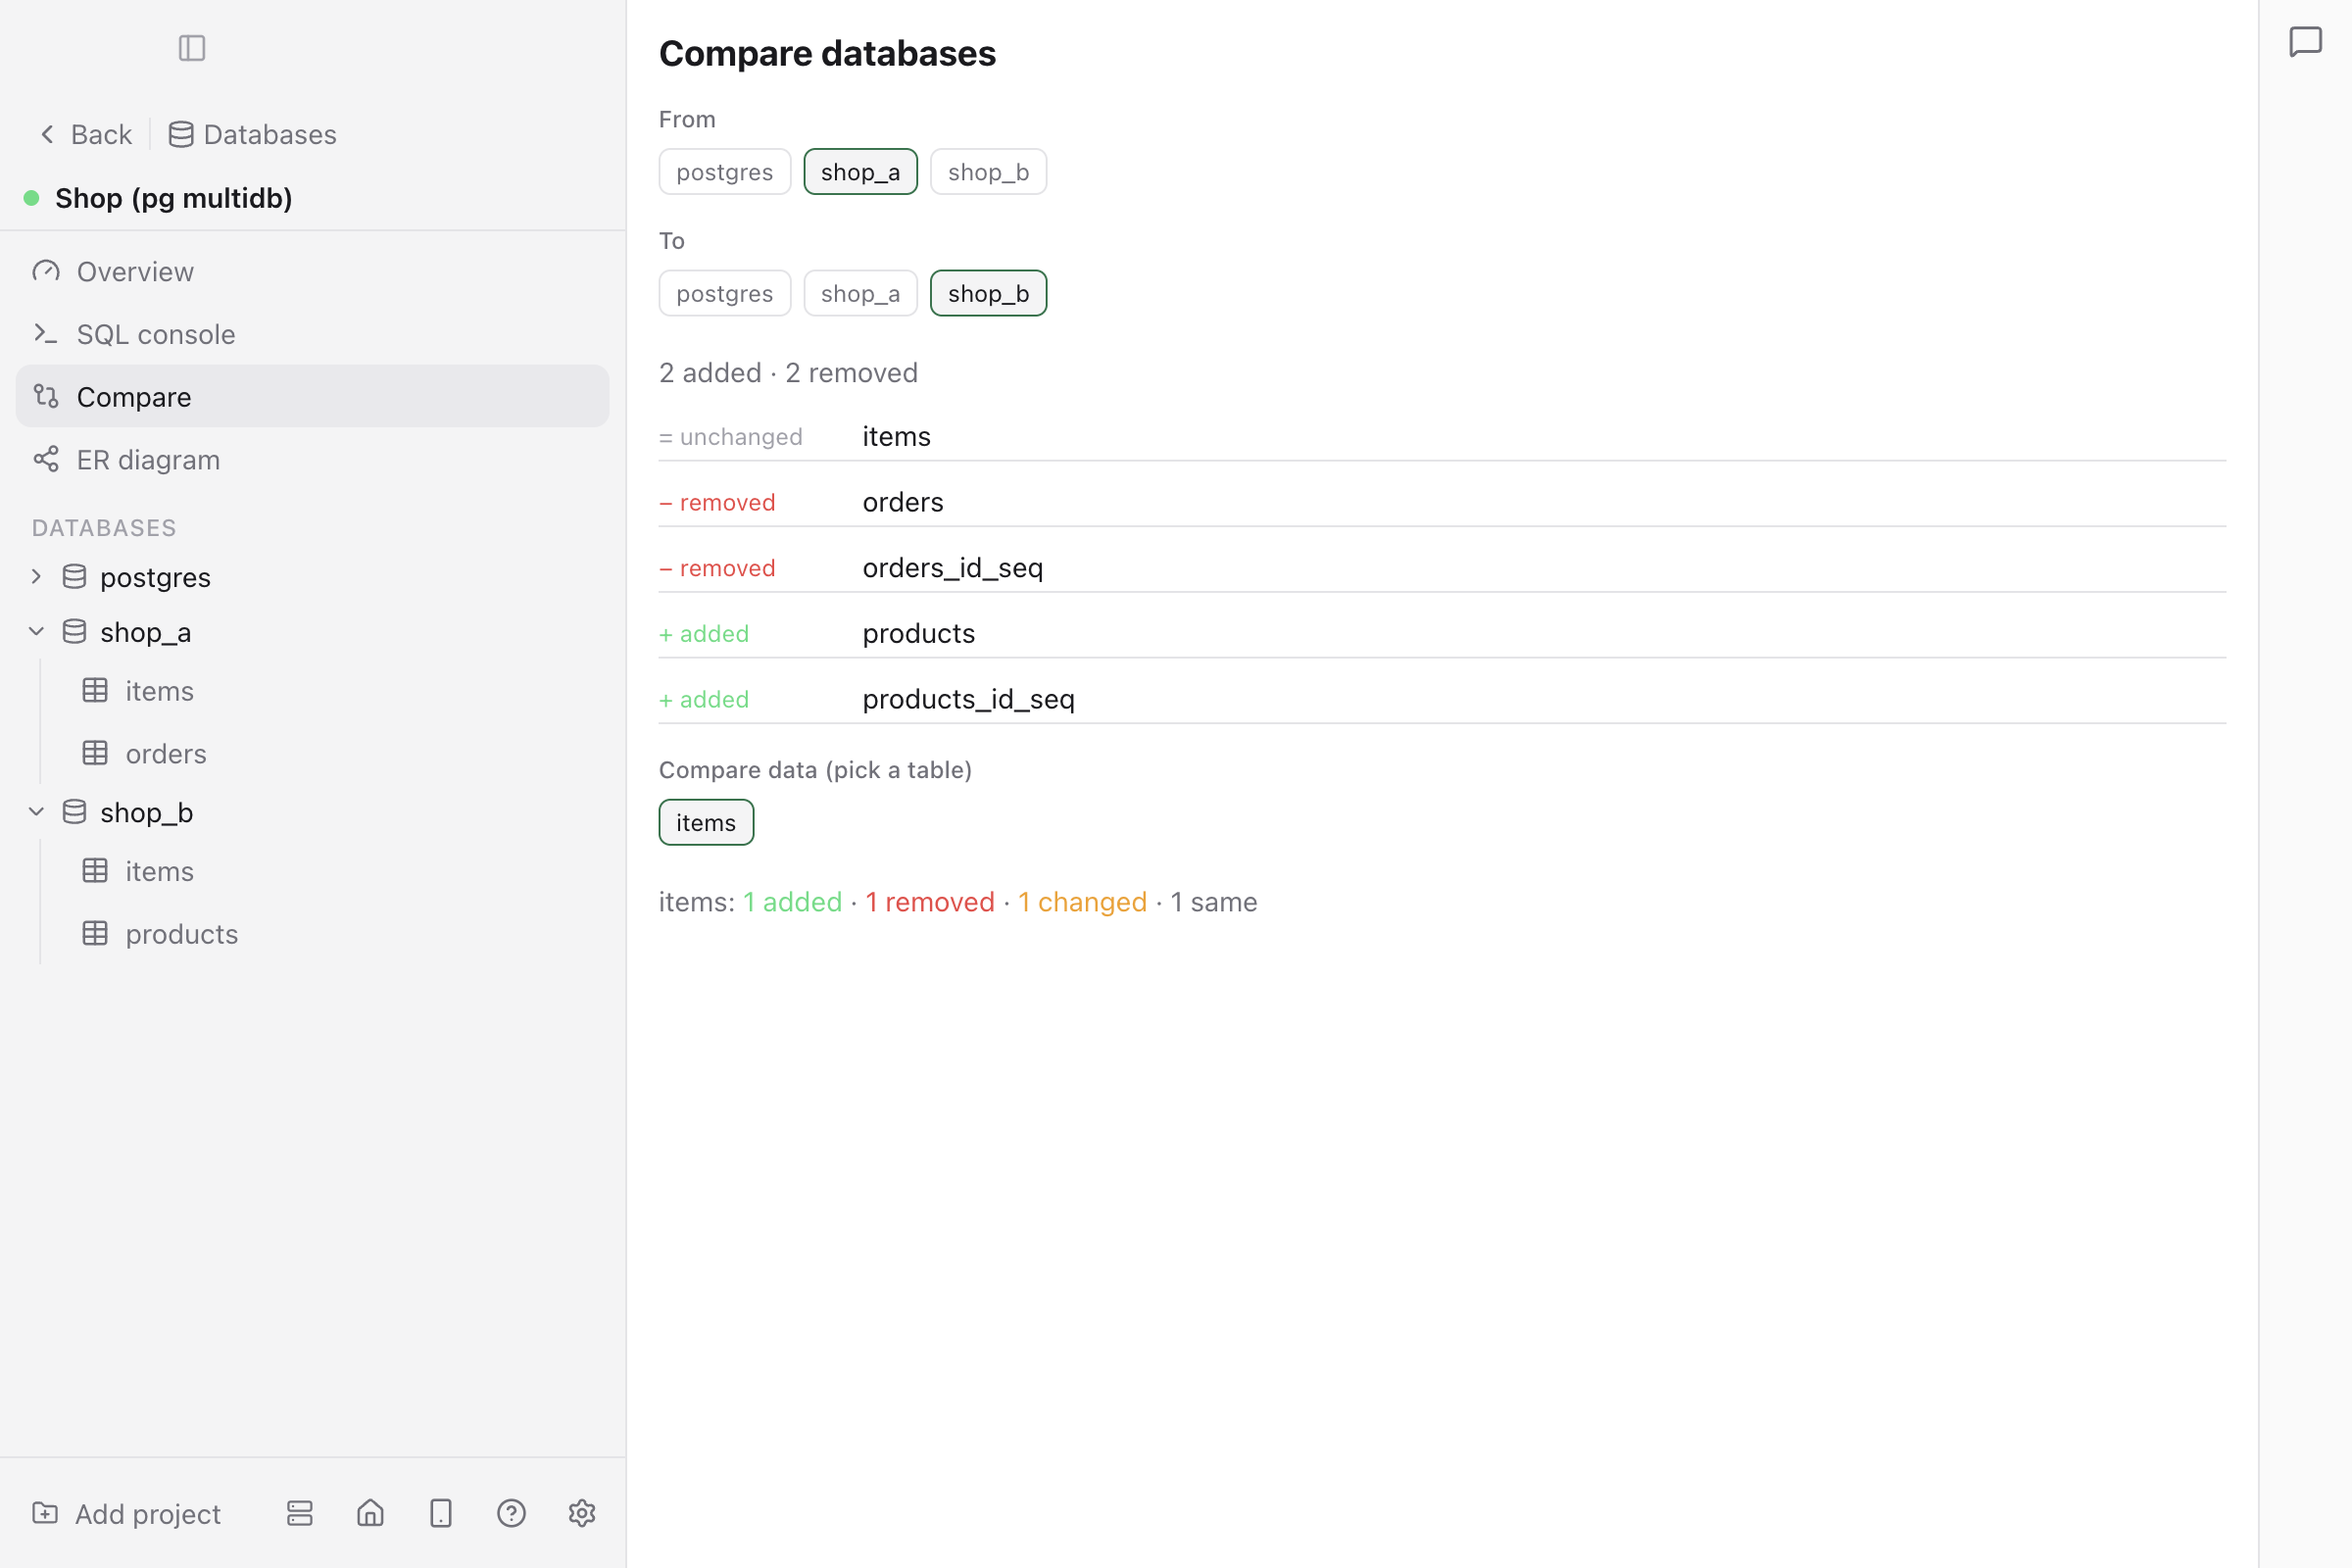
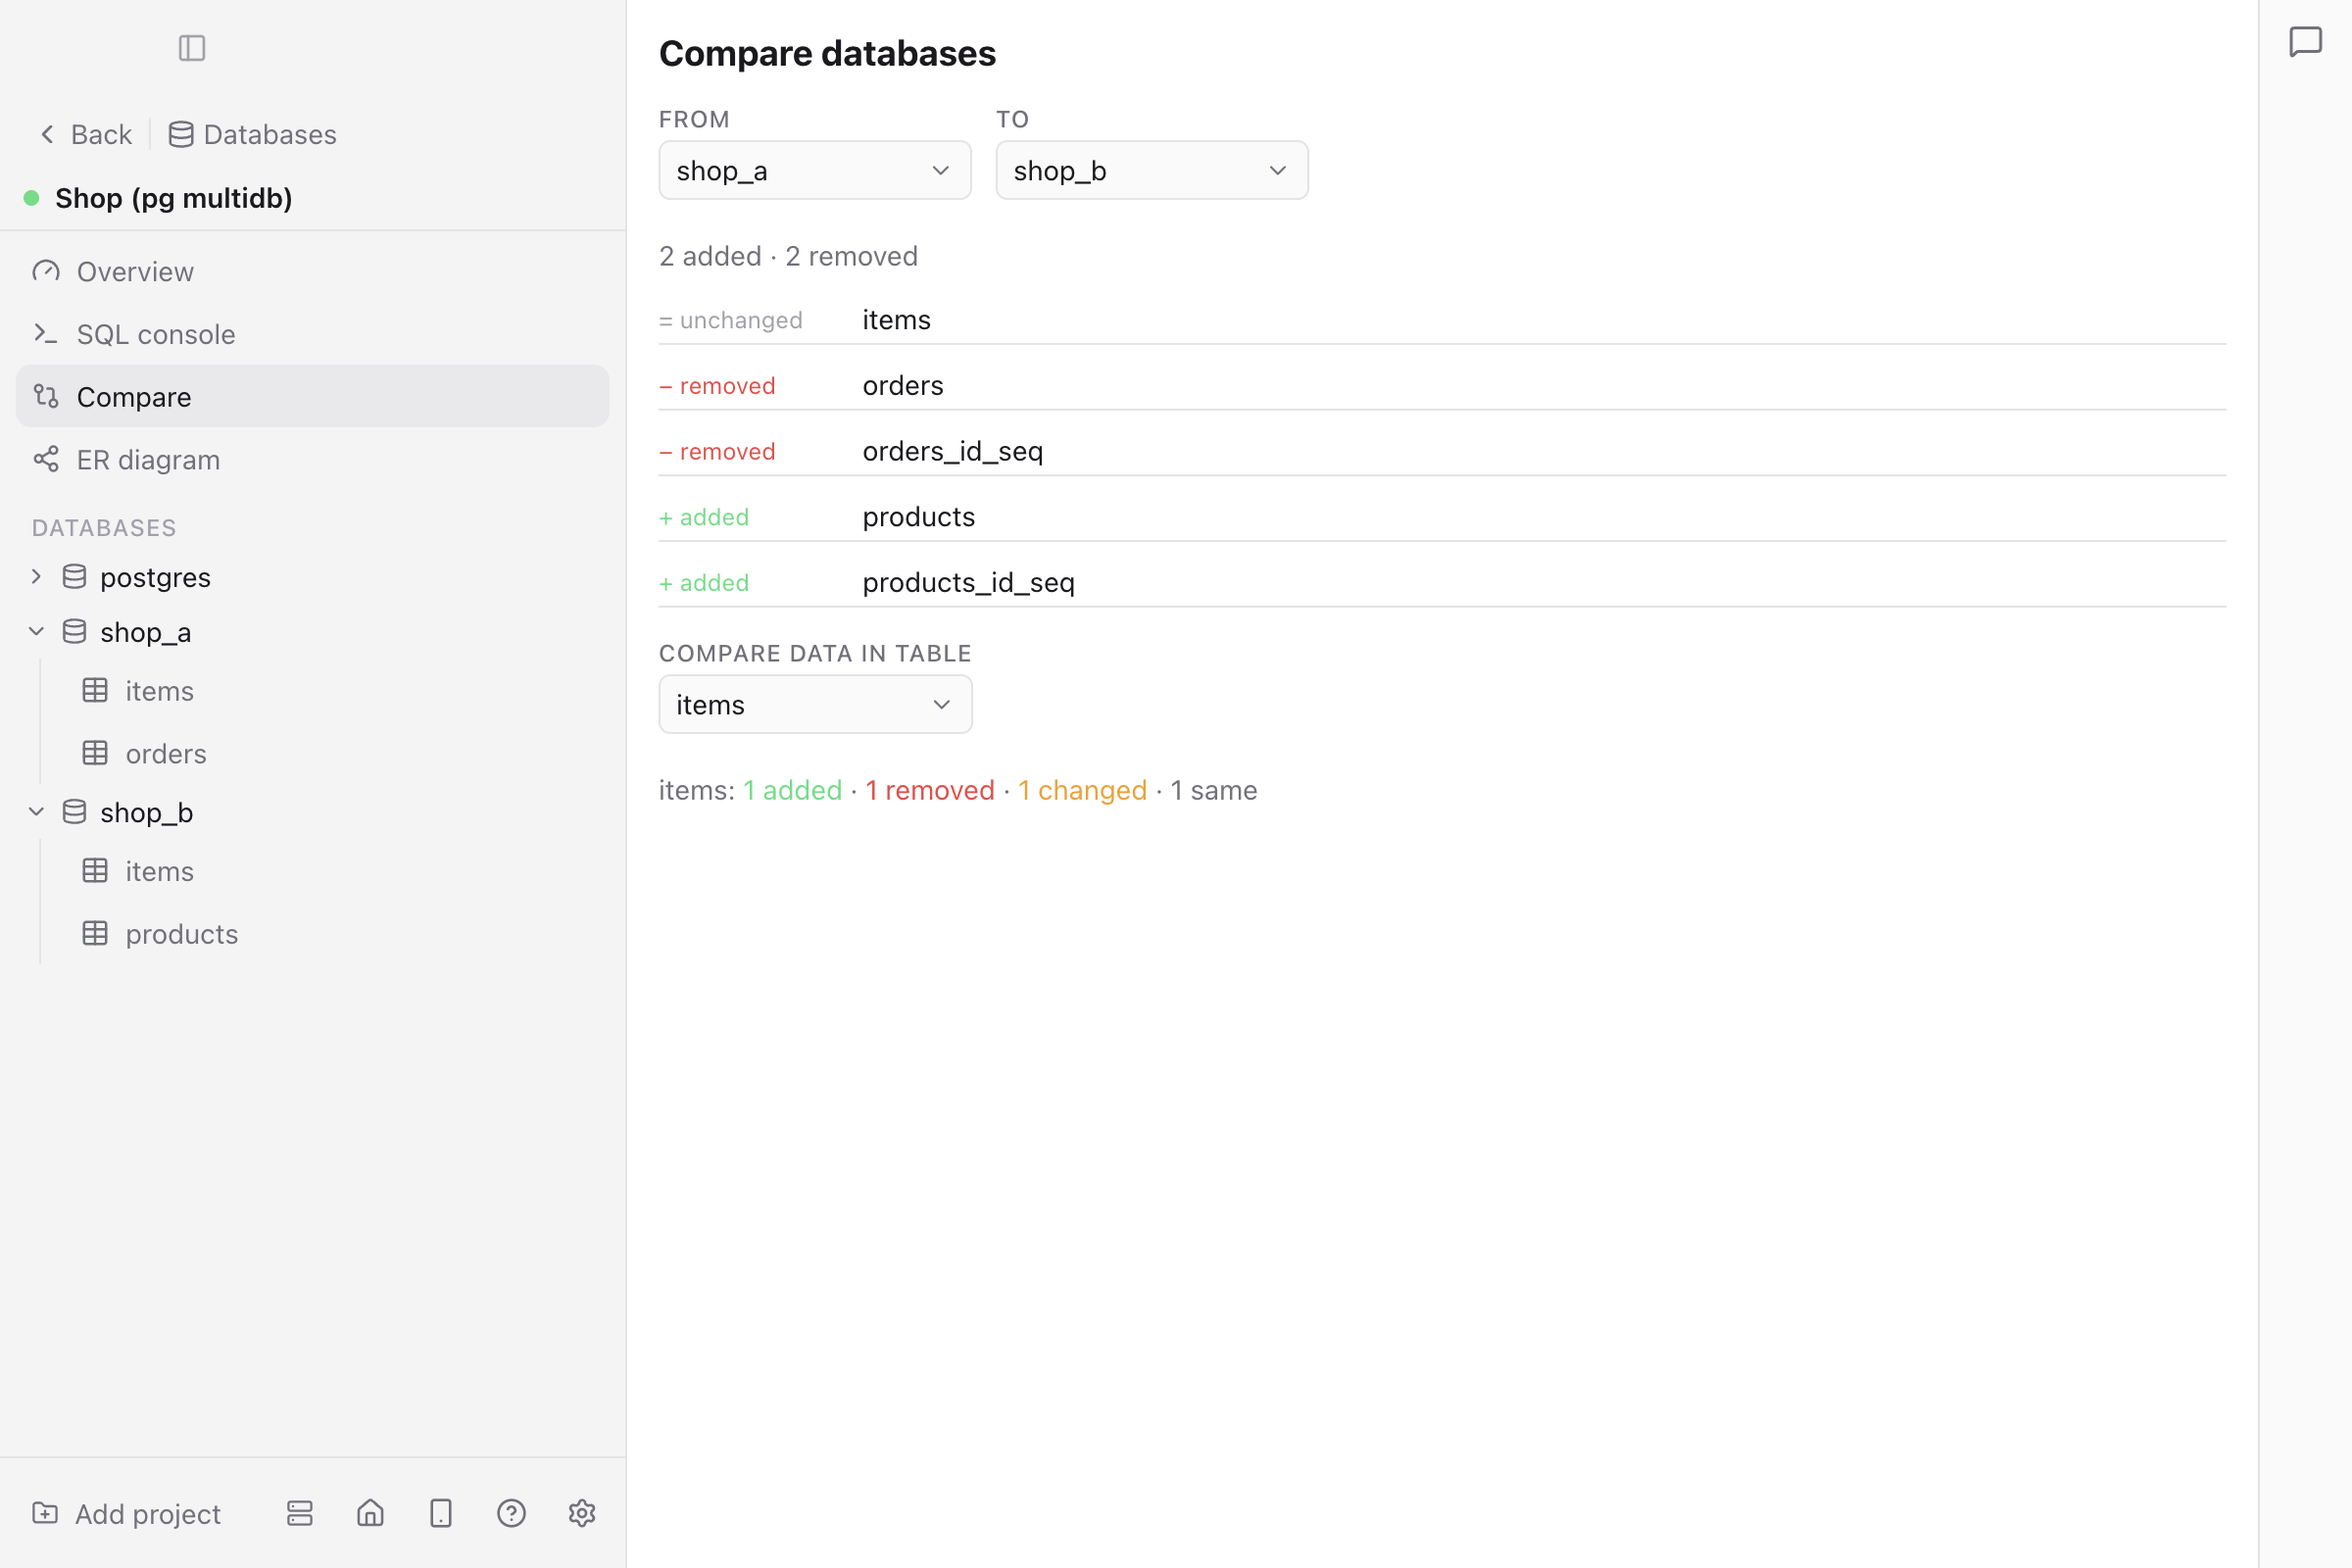
fix(db): compare uses labeled dropdowns, not pill rows (DataGrip-style)
Replace the From/To/table chip rows with proper labeled dropdown selects.
Verified on the real packaged desktop app: From shop_a / To shop_b -> structure
diff + items data diff 1 added/1 removed/1 changed/1 same.

diff --git a/packages/app/src/components/database-schema-diff.tsx b/packages/app/src/components/database-schema-diff.tsx
@@ -1,6 +1,7 @@
 import { useCallback, useEffect, useMemo, useState } from "react";
 import { Pressable, ScrollView, Text, View } from "react-native";
-import { StyleSheet } from "react-native-unistyles";
+import { StyleSheet, withUnistyles } from "react-native-unistyles";
+import { Check, ChevronDown, Layers } from "lucide-react-native";
 import type { DbDatabaseName, DbObject, DbSchema } from "@jagentdesk/protocol/database/rpc-schemas";
 import { useHostRuntimeClient } from "@/runtime/host-runtime";
 import type { DaemonClient } from "@jagentdesk/client/internal/daemon-client";
@@ -8,9 +9,15 @@ import { diffObjects, type ObjectDiff } from "@/utils/sql-schema-diff";
 import { diffRows, type RowDiff } from "@/utils/sql-data-diff";
 import type { Theme } from "@/styles/theme";
 
+const ThemedChevronDown = withUnistyles(ChevronDown);
+const ThemedLayers = withUnistyles(Layers);
+const ThemedCheck = withUnistyles(Check);
+const mutedColor = (theme: Theme) => ({ color: theme.colors.foregroundMuted });
+const accentColor = (theme: Theme) => ({ color: theme.colors.accent });
+
 const DATA_DIFF_CAP = 1000;
 
-function Chip({
+function SelectRow({
   name,
   active,
   onSelect,
@@ -24,12 +31,66 @@ function Chip({
   const handlePress = useCallback(() => onSelect(name), [name, onSelect]);
   return (
     <Pressable
-      style={[styles.chip, active && styles.chipActive]}
+      style={[styles.option, active && styles.optionActive]}
       onPress={handlePress}
       testID={testID}
     >
-      <Text style={[styles.chipText, active && styles.chipTextActive]}>{name}</Text>
+      <ThemedLayers size={13} uniProps={mutedColor} />
+      <Text style={styles.optionText} numberOfLines={1}>
+        {name}
+      </Text>
+      {active ? <ThemedCheck size={13} uniProps={accentColor} /> : null}
     </Pressable>
+  );
+}
+
+/** A labeled dropdown (DataGrip's data-source pickers), not a row of pills. */
+function Select({
+  label,
+  value,
+  options,
+  onSelect,
+  testPrefix,
+}: {
+  label: string;
+  value: string | null;
+  options: string[];
+  onSelect: (name: string) => void;
+  testPrefix: string;
+}) {
+  const [open, setOpen] = useState(false);
+  const toggle = useCallback(() => setOpen((v) => !v), []);
+  const pick = useCallback(
+    (name: string) => {
+      onSelect(name);
+      setOpen(false);
+    },
+    [onSelect],
+  );
+  if (options.length === 0) return null;
+  return (
+    <View style={styles.select}>
+      <Text style={styles.selectLabel}>{label}</Text>
+      <Pressable style={styles.trigger} onPress={toggle} testID={`${testPrefix}-trigger`}>
+        <Text style={styles.triggerText} numberOfLines={1}>
+          {value ?? "Select"}
+        </Text>
+        <ThemedChevronDown size={14} uniProps={mutedColor} />
+      </Pressable>
+      {open ? (
+        <View style={styles.menu}>
+          {options.map((o) => (
+            <SelectRow
+              key={o}
+              name={o}
+              active={value === o}
+              onSelect={pick}
+              testID={`${testPrefix}-${o}`}
+            />
+          ))}
+        </View>
+      ) : null}
+    </View>
   );
 }
 
@@ -236,29 +297,21 @@ export function DatabaseSchemaDiff({
     <View style={styles.container}>
       <ScrollView style={styles.scroll} contentContainerStyle={styles.content}>
         <Text style={styles.title}>{multiDb ? "Compare databases" : "Compare schemas"}</Text>
-        <Text style={styles.label}>From</Text>
-        <View style={styles.chipRow}>
-          {leftChoices.map((n) => (
-            <Chip
-              key={`l-${n}`}
-              name={n}
-              active={leftValue === n}
-              onSelect={onLeft}
-              testID={`compare-from-${n}`}
-            />
-          ))}
-        </View>
-        <Text style={styles.label}>To</Text>
-        <View style={styles.chipRow}>
-          {rightChoices.map((n) => (
-            <Chip
-              key={`r-${n}`}
-              name={n}
-              active={rightValue === n}
-              onSelect={onRight}
-              testID={`compare-to-${n}`}
-            />
-          ))}
+        <View style={styles.selectRow}>
+          <Select
+            label="From"
+            value={leftValue}
+            options={leftChoices}
+            onSelect={onLeft}
+            testPrefix="compare-from"
+          />
+          <Select
+            label="To"
+            value={rightValue}
+            options={rightChoices}
+            onSelect={onRight}
+            testPrefix="compare-to"
+          />
         </View>
 
         <Text style={styles.summary}>
@@ -277,17 +330,14 @@ export function DatabaseSchemaDiff({
 
         {commonTables.length > 0 ? (
           <>
-            <Text style={styles.label}>Compare data (pick a table)</Text>
-            <View style={styles.chipRow}>
-              {commonTables.map((t) => (
-                <Chip
-                  key={`t-${t}`}
-                  name={t}
-                  active={table === t}
-                  onSelect={runDataDiff}
-                  testID={`compare-table-${t}`}
-                />
-              ))}
+            <View style={styles.selectRow}>
+              <Select
+                label="Compare data in table"
+                value={table}
+                options={commonTables}
+                onSelect={runDataDiff}
+                testPrefix="compare-table"
+              />
             </View>
             {dataError ? <Text style={styles.dataError}>{dataError}</Text> : null}
             {rowDiff ? (
@@ -319,23 +369,53 @@ const styles = StyleSheet.create((theme: Theme) => ({
     fontWeight: theme.fontWeight.bold,
     color: theme.colors.foreground,
   },
-  label: {
+  selectRow: {
+    flexDirection: "row",
+    flexWrap: "wrap",
+    gap: theme.spacing[3],
+    marginTop: theme.spacing[2],
+  },
+  select: { minWidth: 160, gap: theme.spacing[1] },
+  selectLabel: {
     fontSize: theme.fontSize.xs,
     fontWeight: theme.fontWeight.medium,
     color: theme.colors.foregroundMuted,
-    marginTop: theme.spacing[2],
+    textTransform: "uppercase" as const,
+    letterSpacing: 0.5,
   },
-  chipRow: { flexDirection: "row", flexWrap: "wrap", gap: theme.spacing[1.5] },
-  chip: {
+  trigger: {
+    flexDirection: "row",
+    alignItems: "center",
+    gap: theme.spacing[2],
     paddingHorizontal: theme.spacing[2],
-    paddingVertical: theme.spacing[1],
+    paddingVertical: theme.spacing[1.5],
     borderRadius: theme.borderRadius.md,
     borderWidth: theme.borderWidth[1],
     borderColor: theme.colors.border,
+    backgroundColor: theme.colors.surface1,
   },
-  chipActive: { borderColor: theme.colors.accent, backgroundColor: theme.colors.surface2 },
-  chipText: { fontSize: theme.fontSize.xs, color: theme.colors.foregroundMuted },
-  chipTextActive: { color: theme.colors.foreground },
+  triggerText: {
+    flex: 1,
+    minWidth: 0,
+    fontSize: theme.fontSize.sm,
+    color: theme.colors.foreground,
+  },
+  menu: {
+    borderWidth: theme.borderWidth[1],
+    borderColor: theme.colors.border,
+    borderRadius: theme.borderRadius.md,
+    backgroundColor: theme.colors.surface0,
+    overflow: "hidden",
+  },
+  option: {
+    flexDirection: "row",
+    alignItems: "center",
+    gap: theme.spacing[2],
+    paddingHorizontal: theme.spacing[2],
+    paddingVertical: theme.spacing[1.5],
+  },
+  optionActive: { backgroundColor: theme.colors.surface1 },
+  optionText: { flex: 1, minWidth: 0, fontSize: theme.fontSize.sm, color: theme.colors.foreground },
   summary: {
     fontSize: theme.fontSize.sm,
     color: theme.colors.foregroundMuted,
